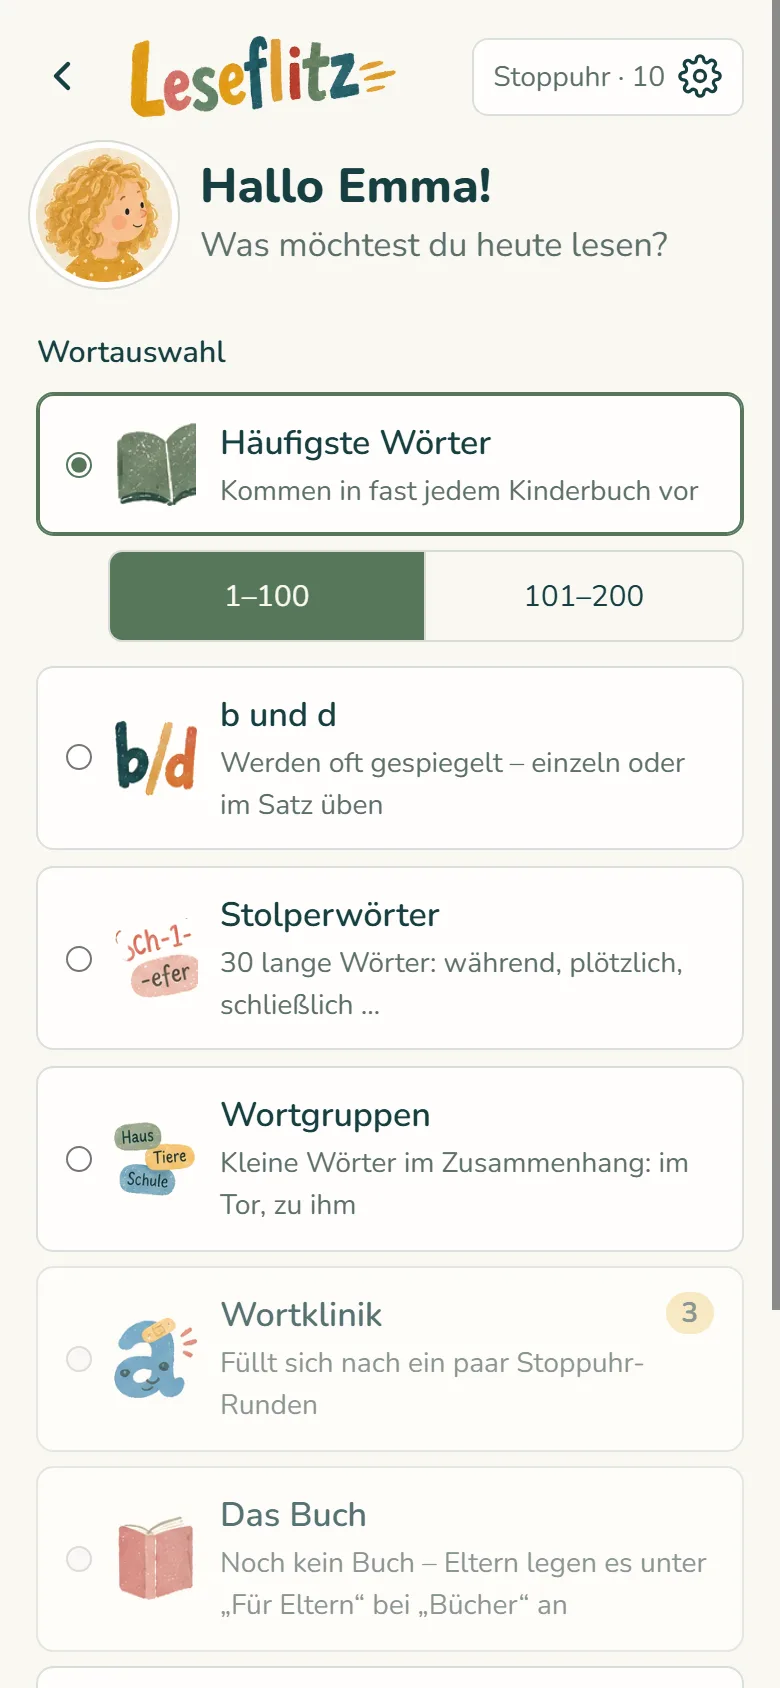
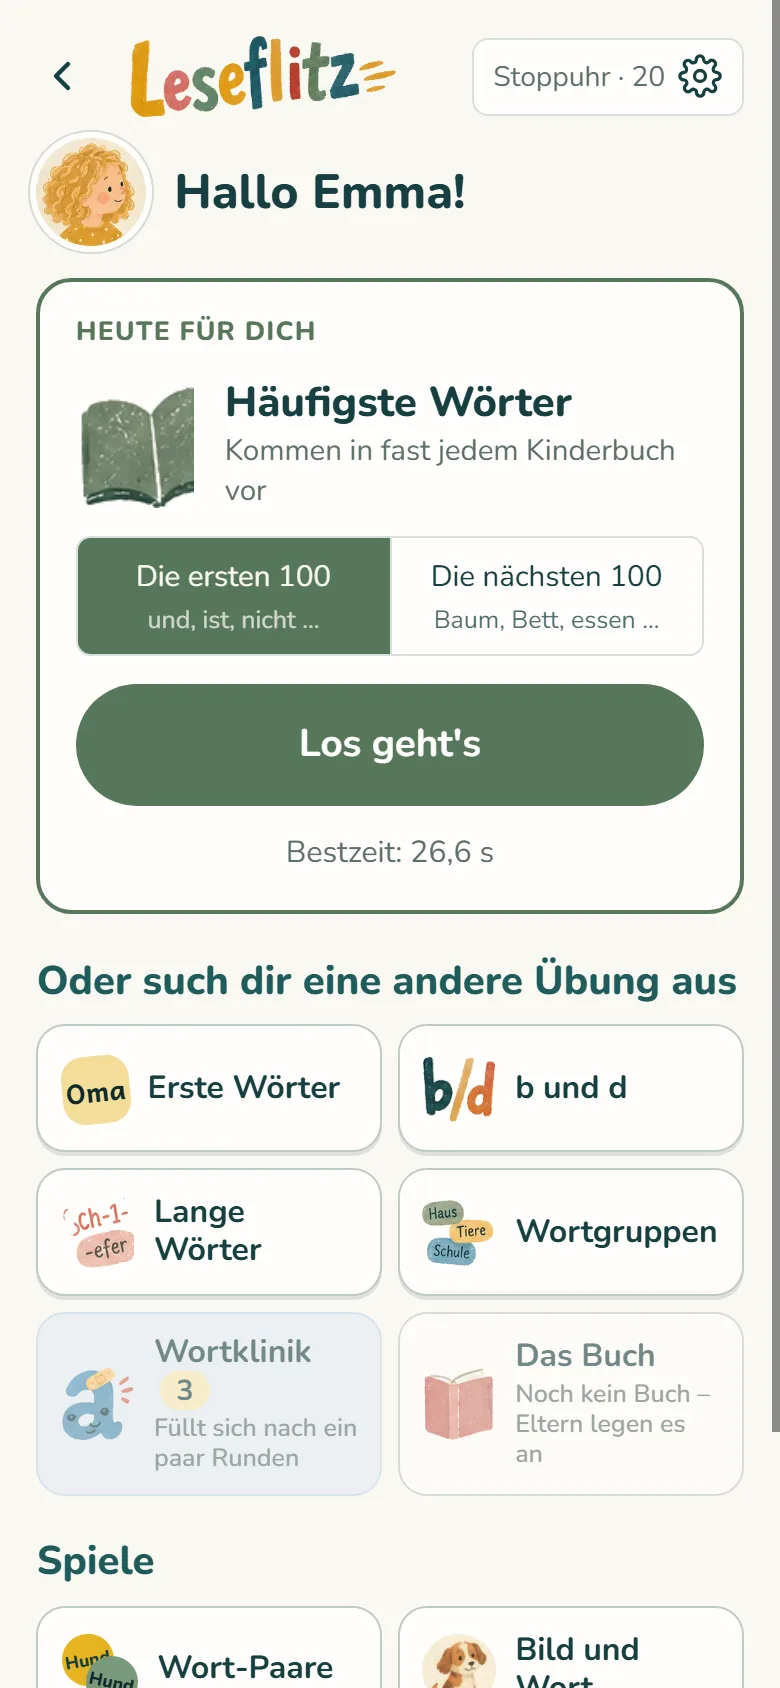
App-Bilder erneuert: neue Startseite, Ergebnis 23,5 s für 20 Wörter, Vorschaubild „Flüssig lesen“

diff --git a/index.html b/index.html
@@ -73,11 +73,11 @@
   </section>
 
   <div class="shots" role="list" aria-label="Bilder aus der App">
-    <figure role="listitem"><img src="img/app-wort.webp" alt="Das Wort „nicht“ groß auf dem Bildschirm, darunter der Knopf „Wortklinik“" width="390" height="844" loading="lazy">
+    <figure role="listitem"><img src="img/app-wort.webp" alt="Ein Wort groß auf dem Bildschirm, darunter der Knopf „Wortklinik“" width="390" height="844" loading="lazy">
       <figcaption>Laut lesen. Was noch schwerfällt, kommt in die Wortklinik.</figcaption></figure>
-    <figure role="listitem"><img src="img/app-auswahl.webp" alt="Wortauswahl: häufigste Wörter, b und d, Stolperwörter, Wortgruppen, Wortklinik, das eigene Buch" width="390" height="844" loading="lazy">
+    <figure role="listitem"><img src="img/app-auswahl.webp" alt="Startseite des Kindes: Vorschlag „Heute für dich“, darunter Übungen und Spiele" width="390" height="844" loading="lazy">
       <figcaption>Die Wörter aus fast jedem Kinderbuch</figcaption></figure>
-    <figure role="listitem"><img src="img/app-ergebnis.webp" alt="Ergebnis: Zeit für 10 Wörter und die eigene Bestzeit" width="390" height="844" loading="lazy">
+    <figure role="listitem"><img src="img/app-ergebnis.webp" alt="Ergebnis: 23,5 Sekunden für 20 Wörter und die eigene Bestzeit" width="390" height="844" loading="lazy">
       <figcaption>Die eigene Bestzeit schlagen</figcaption></figure>
   </div>
 
